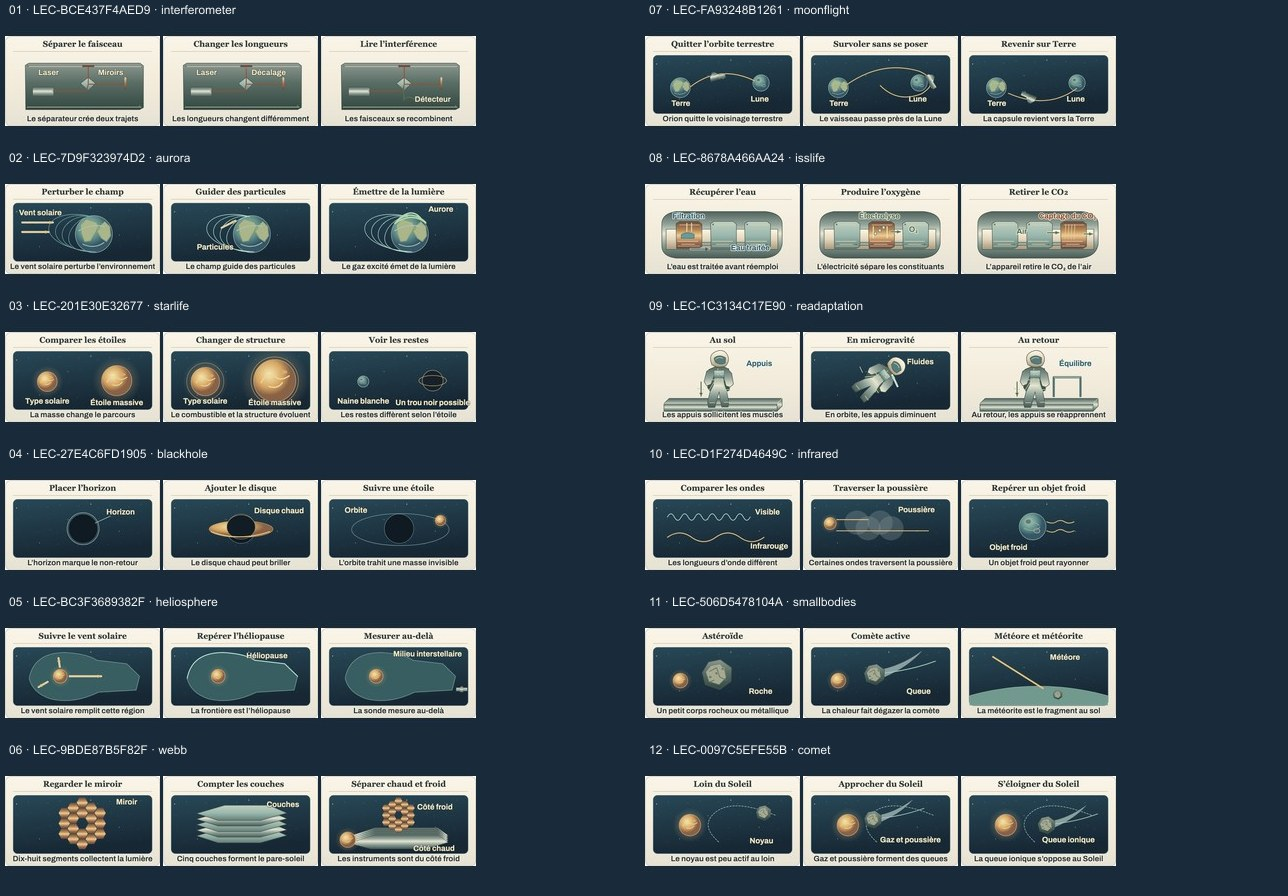
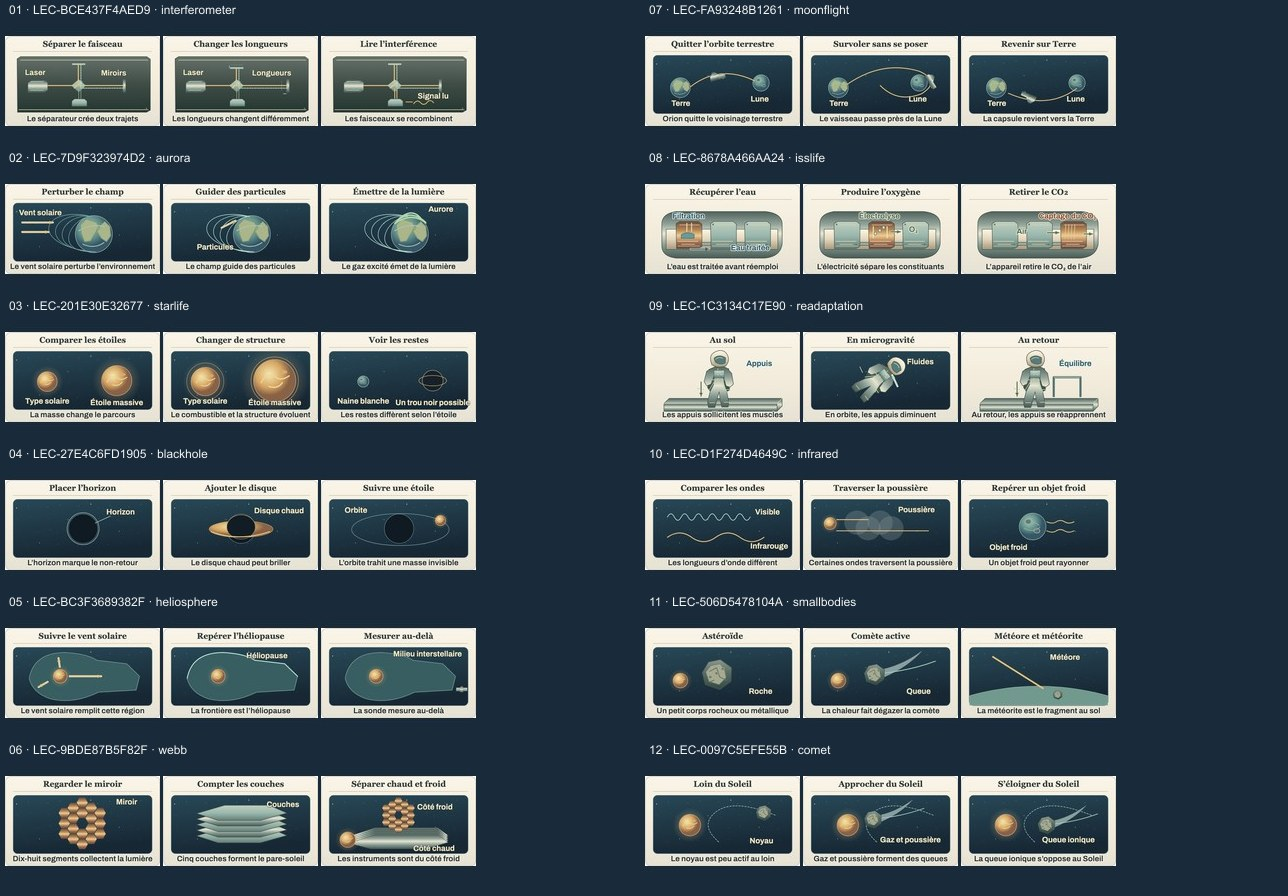
Préciser les trajets optiques de l’interféromètre

Changed region(s): [[0.0, 0.0625, 0.3727, 0.125]]

diff --git a/src/components/lesson-visuals/refined/editorial/astronomy.tsx b/src/components/lesson-visuals/refined/editorial/astronomy.tsx
@@ -209,16 +209,33 @@ export const astronomyStudies = {
       "Les longueurs changent différemment",
       "Les faisceaux se recombinent",
     ],
-    draw: (s, id) => [
-      panel(id, 47, 63, 269, 104, "iron"),
-      surface(id, "M64 118h49v22H64Z", "steel"),
-      surface(id, "M175 110l18-14 17 14-17 17Z", "glass", 1.1),
-      stroke(s === 1 ? "M111 128h78l4-16V76m0 36h93" : "M111 128h78l4-16V71m0 41h85", heat, 2.1),
-      stroke("M181 70h24m74 28v25", paint(id, "copper"), 4.4),
-      s === 2
-        ? [stroke("M192 116v34m0-4q12-8 24 0t23 0", forest, 1.9), nightLabel(259, 153, "Détecteur")]
-        : [nightLabel(101, 91, "Laser"), nightLabel(245, 91, s === 1 ? "Décalage" : "Miroirs")],
-    ],
+    draw: (s, id) => {
+      const top = s === 1 ? 76 : 67;
+      const right = s === 1 ? 288 : 275;
+      return [
+        panel(id, 28, 48, 304, 125, "soot"),
+        surface(id, "M53 109l9-7h29l8 6v18l-8 5H53Z", "steel", 1.08),
+        stroke("M59 106h30m-30 20h30", "#c5d3b3", 1.2),
+        surface(id, "M153 115l18-15 17 15-17 16Z", "glass", 1.1),
+        stroke("M160 121l19-15", "#e7dec1", 1.45),
+        s === 1 && [
+          stroke("M158 67h26M275 105v23", "#b0bba189", 1, "3 3"),
+          stroke("M154 69v5m125 60h7", cyan, 1.2),
+        ],
+        surface(id, `M155 ${top - 5}h32v7h-32Z`, "steel", 0.79),
+        surface(id, `M${right - 2} 100h7v31h-7Z`, "steel", 0.79),
+        stroke(`M98 115h72V${top}m0 ${115 - top}h${right - 170}`, amber, 2.45),
+        stroke(`M${right} 121H176V${top}`, cyan, 1.8, "4 2"),
+        stroke("M171 122v28m5-25v25", s === 2 ? amber : "#b4c29a", s === 2 ? 2 : 1.1),
+        surface(id, "M155 151l6-5h23l6 5v12h-35Z", "glass", 1.02),
+        ...(s === 2
+          ? [
+              stroke("M197 153h15m3 4q8-11 16-2q8 8 16-2 7-7 14 2", amber, 1.8),
+              nightLabel(260, 145, "Signal lu"),
+            ]
+          : [nightLabel(70, 91, "Laser"), nightLabel(252, 92, s === 1 ? "Longueurs" : "Miroirs")]),
+      ];
+    },
   },
   aurora: {
     foot: [
